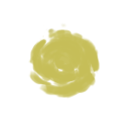
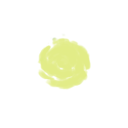
WIP Energy Orb

Changed region(s): [[0.2188, 0.2188, 0.7812, 0.7812]]

diff --git a/OrangeJuiceTheSpire/src/main/java/Moonworks/characters/TheStarBreaker.java b/OrangeJuiceTheSpire/src/main/java/Moonworks/characters/TheStarBreaker.java
@@ -88,17 +88,20 @@ public class TheStarBreaker extends CustomPlayer {
     // =============== TEXTURES OF BIG ENERGY ORB ===============
 
     public static final String[] orbTextures = {
-            "MoonworksResources/images/char/defaultCharacter/orb/layer1.png",
-            "MoonworksResources/images/char/defaultCharacter/orb/layer2.png",
-            "MoonworksResources/images/char/defaultCharacter/orb/layer3.png",
+            "MoonworksResources/images/char/defaultCharacter/orb/layer1star3.png",
+            "MoonworksResources/images/char/defaultCharacter/orb/layer2star.png",
+            "MoonworksResources/images/char/defaultCharacter/orb/layer3star.png",
             "MoonworksResources/images/char/defaultCharacter/orb/layer4star.png", //
             "MoonworksResources/images/char/defaultCharacter/orb/layer5star.png", //
-            "MoonworksResources/images/char/defaultCharacter/orb/layer6.png",
-            "MoonworksResources/images/char/defaultCharacter/orb/layer1d.png",
-            "MoonworksResources/images/char/defaultCharacter/orb/layer2d.png",
-            "MoonworksResources/images/char/defaultCharacter/orb/layer3d.png",
-            "MoonworksResources/images/char/defaultCharacter/orb/layer4d.png",
-            "MoonworksResources/images/char/defaultCharacter/orb/layer5d.png",};
+            "MoonworksResources/images/char/defaultCharacter/orb/layer6star.png",
+            "MoonworksResources/images/char/defaultCharacter/orb/layer1star3d.png",
+            "MoonworksResources/images/char/defaultCharacter/orb/layer2star.png",
+            "MoonworksResources/images/char/defaultCharacter/orb/layer3star.png",
+            "MoonworksResources/images/char/defaultCharacter/orb/layer4stard.png",
+            "MoonworksResources/images/char/defaultCharacter/orb/layer5stard.png",};
+
+    //public static final float[] layerSpeeds = {-20.0F, 20.0F, -40.0F, 40.0F, 360.0F};
+    public static final float[] layerSpeeds = {-20.0F, 20.0F, -40.0F, 40.0F, 0.0F};
 
     // =============== /TEXTURES OF BIG ENERGY ORB/ ===============
 
@@ -106,7 +109,7 @@ public class TheStarBreaker extends CustomPlayer {
 
     public TheStarBreaker(String name, PlayerClass setClass) {
         //super(name, setClass, orbTextures, "MoonworksResources/images/char/defaultCharacter/orb/vfxm.png", null, idleAnimation);
-        super(name, setClass, orbTextures, "MoonworksResources/images/char/defaultCharacter/orb/vfxstar.png", null, idleAnimation);
+        super(name, setClass, orbTextures, "MoonworksResources/images/char/defaultCharacter/orb/vfxstar.png", layerSpeeds, idleAnimation);
 
 
         // =============== TEXTURES, ENERGY, LOADOUT =================  
